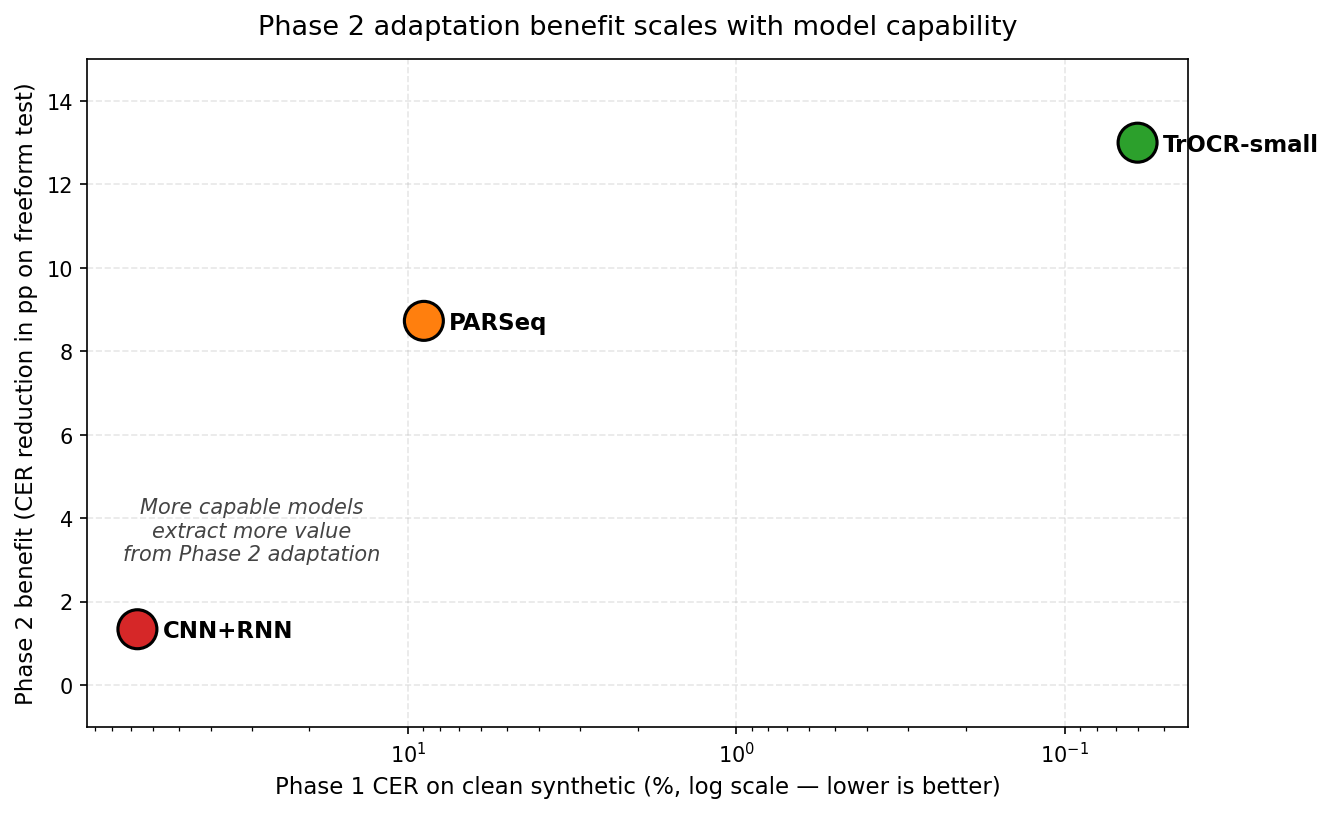
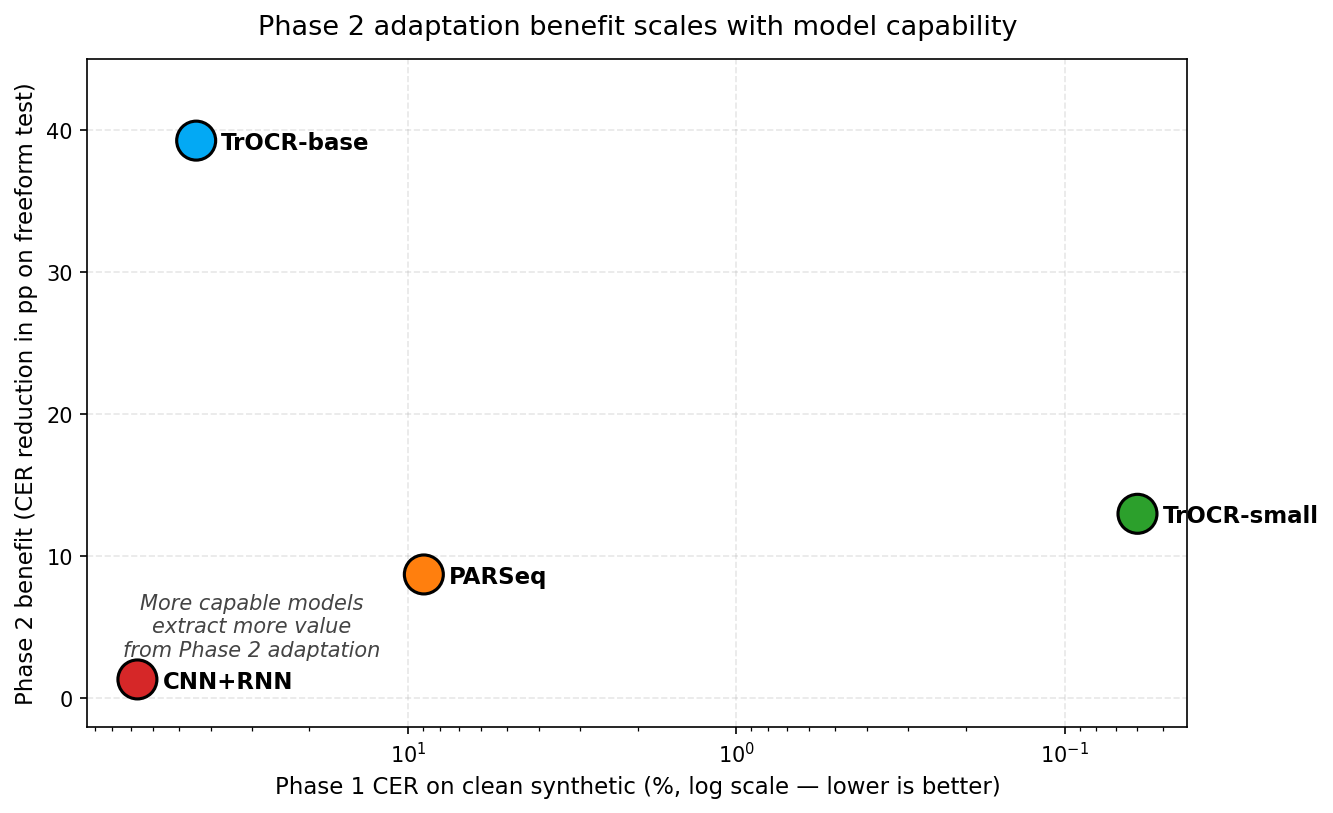
Add TrOCR-base Phase 2 results across data files, scripts, and figures
Phase 2 freeform-trace fine-tune of the TrOCR-base epoch-2 checkpoint produced
the largest absolute lift of any architecture: pre-P2 47.51% -> post-P2 8.24%
CER (+39.27 pp), with exact-match rising 14.29% -> 37.14%. Notably the post-P2
CER is also better than TrOCR-base's own Phase 1 best (44.25%), suggesting the
small-dataset adaptation stabilised the beam-search degeneration that destroyed
Phase 1 training past epoch 2.

Updated:
- docs/base_phase2_results.json (new)
- docs/phase2_comparison.json (added trocr_base entry)
- scripts/save_phase2_comparison.py + plot_model_comparison.py + plot_base_comparison.py
  (added TrOCR-base bars/scatter points)
- All Phase 1 and Phase 2 comparison figures regenerated to include TrOCR-base.

diff --git a/scripts/save_phase2_comparison.py b/scripts/save_phase2_comparison.py
@@ -45,6 +45,18 @@ DATA = {
             "post_p2_freeform_exact_pct": 91.4,
             "lift_pp": 13.00,
         },
+        "trocr_base": {
+            "display_name": "TrOCR-base",
+            "architecture": "Attention (TrOCR-base encoder + RoBERTa decoder)",
+            "params_M": 384.9,
+            "phase1_synth_cer_pct": 44.25,
+            "phase1_synth_exact_pct": 25.8,
+            "pre_p2_freeform_cer_pct": 47.51,
+            "post_p2_freeform_cer_pct": 8.24,
+            "pre_p2_freeform_exact_pct": 14.29,
+            "post_p2_freeform_exact_pct": 37.14,
+            "lift_pp": 39.27,
+        },
         "parseq": {
             "display_name": "PARSeq",
             "architecture": "Attention (ViT + Permutation-LM decoder)",
@@ -83,7 +95,7 @@ def save_json():
 def save_markdown():
     path = DOCS / "phase2_comparison_results.md"
     models = DATA["models"]
-    order = ["trocr_small", "parseq", "cnn_rnn"]
+    order = ["trocr_small", "trocr_base", "parseq", "cnn_rnn"]
     md = [
         "# Phase 2 Three-Architecture Comparison",
         "",
@@ -137,7 +149,7 @@ def save_markdown():
 
 def chart_pre_vs_post():
     """Grouped bar: pre-P2 vs post-P2 freeform CER, one group per model."""
-    order = ["trocr_small", "parseq", "cnn_rnn"]
+    order = ["trocr_small", "trocr_base", "parseq", "cnn_rnn"]
     labels = [DATA["models"][k]["display_name"] for k in order]
     pre = [DATA["models"][k]["pre_p2_freeform_cer_pct"] for k in order]
     post = [DATA["models"][k]["post_p2_freeform_cer_pct"] for k in order]
@@ -179,11 +191,12 @@ def chart_pre_vs_post():
 
 def chart_lift_vs_capability():
     """Scatter: Phase 1 CER (x, inverted) vs Phase 2 lift (y)."""
-    order = ["cnn_rnn", "parseq", "trocr_small"]
+    order = ["cnn_rnn", "parseq", "trocr_small", "trocr_base"]
     xs = [DATA["models"][k]["phase1_synth_cer_pct"] for k in order]
     ys = [DATA["models"][k]["lift_pp"] for k in order]
     labels = [DATA["models"][k]["display_name"] for k in order]
-    colors = ["#d62728", "#ff7f0e", "#2ca02c"]
+    # cnn_rnn, parseq, trocr_small, trocr_base
+    colors = ["#d62728", "#ff7f0e", "#2ca02c", "#03A9F4"]
 
     fig, ax = plt.subplots(figsize=(9, 5.5))
     ax.scatter(xs, ys, s=350, c=colors, edgecolors="black", linewidths=1.5, zorder=3)
@@ -204,7 +217,7 @@ def chart_lift_vs_capability():
     ax.set_title("Phase 2 adaptation benefit scales with model capability", fontsize=13, pad=12)
     ax.grid(alpha=0.3, linestyle="--")
     ax.invert_xaxis()  # more capable -> right
-    ax.set_ylim(-1, 15)
+    ax.set_ylim(-2, 45)  # extended for TrOCR-base's larger lift
 
     # Trend annotation
     ax.annotate(
@@ -222,7 +235,7 @@ def chart_lift_vs_capability():
 
 def chart_combined():
     """Two-panel figure: bar chart + scatter, side by side for thesis."""
-    order = ["trocr_small", "parseq", "cnn_rnn"]
+    order = ["trocr_small", "trocr_base", "parseq", "cnn_rnn"]
     labels = [DATA["models"][k]["display_name"] for k in order]
     pre = [DATA["models"][k]["pre_p2_freeform_cer_pct"] for k in order]
     post = [DATA["models"][k]["post_p2_freeform_cer_pct"] for k in order]
@@ -249,11 +262,11 @@ def chart_combined():
                      f"{h:.1f}%", ha="center", va="bottom", fontsize=8)
 
     # Right: scatter (capability vs lift)
-    order_scatter = ["cnn_rnn", "parseq", "trocr_small"]
+    order_scatter = ["cnn_rnn", "parseq", "trocr_small", "trocr_base"]
     xs = [DATA["models"][k]["phase1_synth_cer_pct"] for k in order_scatter]
     ys = [DATA["models"][k]["lift_pp"] for k in order_scatter]
     scatter_labels = [DATA["models"][k]["display_name"] for k in order_scatter]
-    colors = ["#d62728", "#ff7f0e", "#2ca02c"]
+    colors = ["#d62728", "#ff7f0e", "#2ca02c", "#03A9F4"]
 
     ax2.scatter(xs, ys, s=300, c=colors, edgecolors="black", linewidths=1.5, zorder=3)
     for x_val, y_val, label in zip(xs, ys, scatter_labels):
@@ -265,7 +278,7 @@ def chart_combined():
     ax2.set_title("(b) Phase 2 benefit vs. base capability", fontsize=12)
     ax2.grid(alpha=0.3, linestyle="--")
     ax2.invert_xaxis()
-    ax2.set_ylim(-1, 15)
+    ax2.set_ylim(-2, 45)
 
     fig.suptitle(
         "Phase 2 fine-tuning across OCR architectures on freeform trace",

diff --git a/scripts/plot_base_comparison.py b/scripts/plot_base_comparison.py
@@ -153,9 +153,9 @@ print(f"Saved: {output_dir / 'base_vs_small_val_loss.png'}")
 # Phase 1 = trained on 200k clean synthetic. Source: docs/phase2_comparison.json
 fig, ax = plt.subplots(figsize=(10, 5))
 
-size_models_p1 = ["CNN+RNN\n(12.5M)", "PARSeq\n(23.8M)", "TrOCR-small\n(61.6M)"]
-size_cer_p1 = [66.82, 8.96, 0.06]
-size_bar_colors = [colors["cnn_rnn"], "#4CAF50", colors["small"]]
+size_models_p1 = ["CNN+RNN\n(12.5M)", "PARSeq\n(23.8M)", "TrOCR-small\n(61.6M)", "TrOCR-base\n(385M)"]
+size_cer_p1 = [66.82, 8.96, 0.06, 44.25]
+size_bar_colors = [colors["cnn_rnn"], "#4CAF50", colors["small"], "#03A9F4"]
 
 bars = ax.bar(size_models_p1, size_cer_p1, color=size_bar_colors,
               edgecolor="white", linewidth=0.5)
@@ -181,8 +181,8 @@ print(f"Saved: {output_dir / 'model_size_cer_bar.png'}")
 # After curriculum fine-tune on 350 synthetic-freeform samples.
 fig, ax = plt.subplots(figsize=(10, 5))
 
-size_models_p2 = ["CNN+RNN\n(12.5M)", "PARSeq\n(23.8M)", "TrOCR-small\n(61.6M)"]
-size_cer_p2 = [67.24, 29.17, 1.34]
+size_models_p2 = ["CNN+RNN\n(12.5M)", "PARSeq\n(23.8M)", "TrOCR-small\n(61.6M)", "TrOCR-base\n(385M)"]
+size_cer_p2 = [67.24, 29.17, 1.34, 8.24]
 
 bars = ax.bar(size_models_p2, size_cer_p2, color=size_bar_colors,
               edgecolor="white", linewidth=0.5)

diff --git a/scripts/plot_model_comparison.py b/scripts/plot_model_comparison.py
@@ -144,6 +144,7 @@ all_models = {
     "TrOCR-small\nunfrozen":      0.06,
     "TrOCR-small\nfrozen":        0.14,
     "PARSeq":                     8.96,
+    "TrOCR-base":                44.25,
     "CNN+RNN\n(CTC)":             66.82,
     "TrOCR-small\nUNTRAINED":   100.12,
     "GPT-4o\n(few-shot)":       102.71,
@@ -152,7 +153,9 @@ all_models = {
 }
 
 model_colors = [
-    colors["unfrozen"], colors["frozen"], colors["parseq"], colors["cnn_rnn"],
+    colors["unfrozen"], colors["frozen"], colors["parseq"],
+    "#03A9F4",  # TrOCR-base — distinct blue
+    colors["cnn_rnn"],
     "#BDBDBD", colors["large"], colors["large"], colors["large"],
 ]
 
@@ -186,6 +189,7 @@ fig, ax = plt.subplots(figsize=(12, 5))
 # Large models: few-shot freeform eval from docs/extended_large_model_results.json.
 phase2_models = {
     "TrOCR-small\n(phase 2)":     1.34,
+    "TrOCR-base\n(phase 2)":      8.24,
     "PARSeq\n(phase 2)":         29.17,
     "CNN+RNN\n(phase 2)":        67.24,
     "GPT-4o\n(few-shot)":       141.57,
@@ -194,7 +198,7 @@ phase2_models = {
 }
 
 phase2_colors = [
-    colors["unfrozen"], colors["parseq"], colors["cnn_rnn"],
+    colors["unfrozen"], "#03A9F4", colors["parseq"], colors["cnn_rnn"],
     colors["large"], colors["large"], colors["large"],
 ]
 

diff --git a/docs/phase2_comparison_results.md b/docs/phase2_comparison_results.md
@@ -7,6 +7,7 @@ All three OCR architectures were Phase-1 fine-tuned on 200k synthetic Ogham insc
 | Model | Architecture | Phase 1 synth CER | Pre-P2 freeform CER | Post-P2 freeform CER | Lift (pp) |
 |---|---|---|---|---|---|
 | **TrOCR-small** | Attention (TrOCR encoder + RoBERTa decoder) | 0.06% | 14.34% | **1.34%** | ↓ 13.0 |
+| **TrOCR-base** | Attention (TrOCR-base encoder + RoBERTa decoder) | 44.25% | 47.51% | **8.24%** | ↓ 39.3 |
 | **PARSeq** | Attention (ViT + Permutation-LM decoder) | 8.96% | 37.90% | **29.17%** | ↓ 8.7 |
 | **CNN+RNN** | CTC (ResNet-18 + BiLSTM) | 66.82% | 68.58% | **67.24%** | ↓ 1.3 |
 
